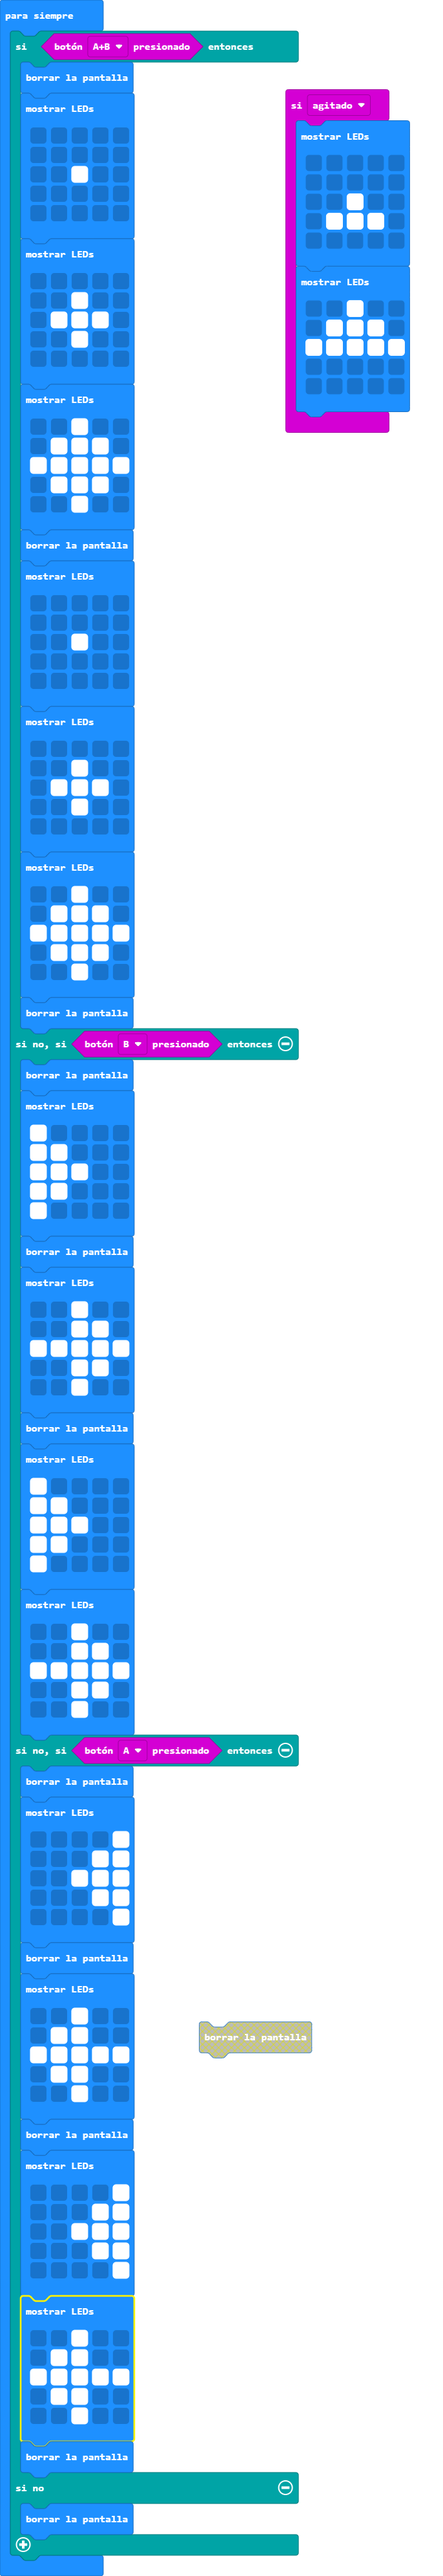
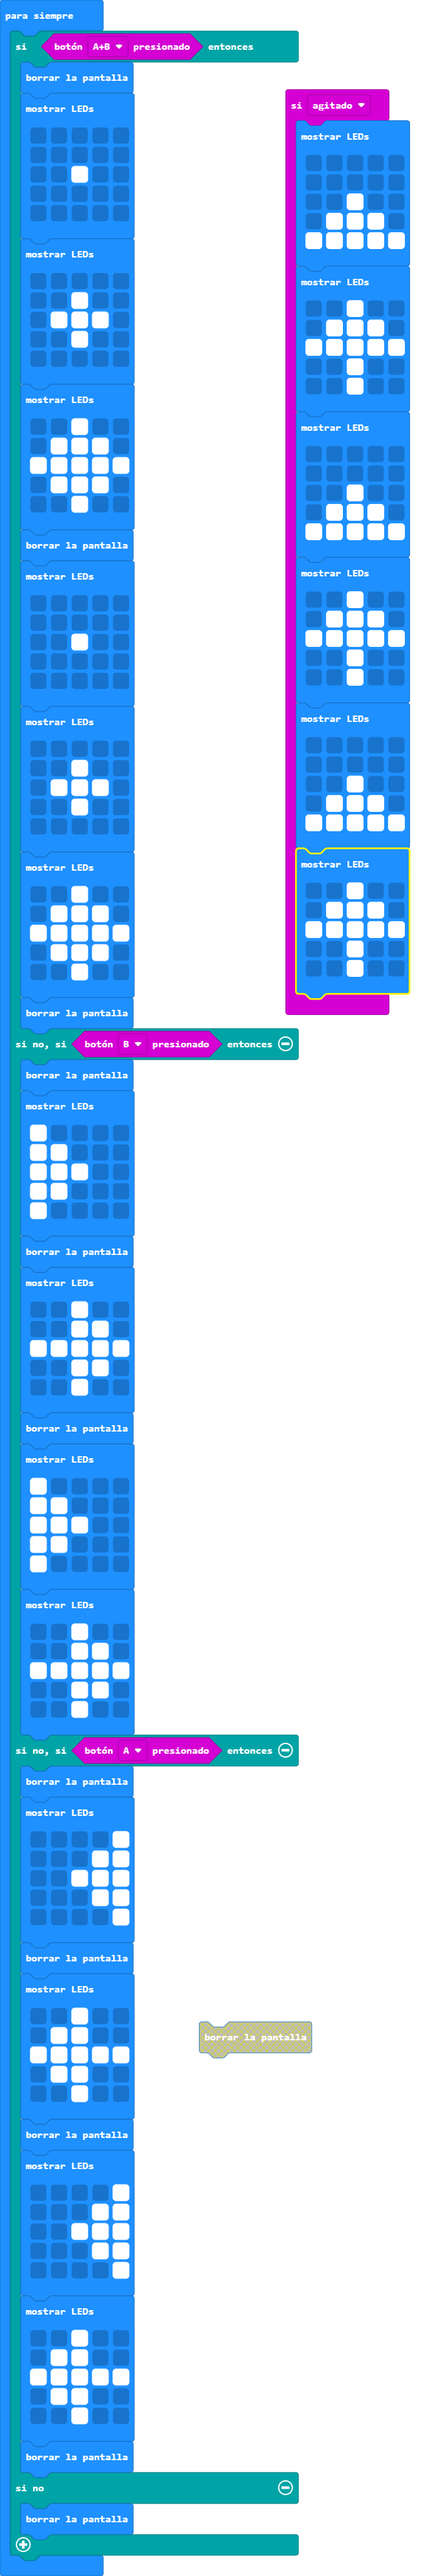
Update main.blocks, main.ts

Changed region(s): [[0.6429, 0.1246, 0.949, 0.4048], [0.2755, 0.9031, 0.3061, 0.9342], [0.0306, 0.9031, 0.0612, 0.9342]]

diff --git a/main.ts b/main.ts
@@ -4,14 +4,42 @@ input.onGesture(Gesture.Shake, function () {
         . . . . .
         . . # . .
         . # # # .
-        . . . . .
+        # # # # #
         `)
     basic.showLeds(`
         . . # . .
         . # # # .
         # # # # #
+        . . # . .
+        . . # . .
+        `)
+    basic.showLeds(`
         . . . . .
         . . . . .
+        . . # . .
+        . # # # .
+        # # # # #
+        `)
+    basic.showLeds(`
+        . . # . .
+        . # # # .
+        # # # # #
+        . . # . .
+        . . # . .
+        `)
+    basic.showLeds(`
+        . . . . .
+        . . . . .
+        . . # . .
+        . # # # .
+        # # # # #
+        `)
+    basic.showLeds(`
+        . . # . .
+        . # # # .
+        # # # # #
+        . . # . .
+        . . # . .
         `)
 })
 basic.forever(function () {
